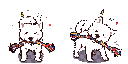
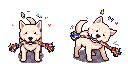
양몰이 v5.48: 터그 그림 진도견·보더콜리·코기의 흰 털이 배경과 같이 지워져 투명하던 것 — 제미나이 원본에서 다시 뗌(무채색 밝은 배경만 바깥부터 + 외곽선 안쪽은 지키기). 터그 시트 ?v= 붙임

diff --git a/sheepdog-v5/그림.js b/sheepdog-v5/그림.js
@@ -11,7 +11,7 @@ const 그림 = {
   시작(canvas) {
     그림.화면 = canvas; 그림.c = canvas.getContext("2d"); 그림.c.imageSmoothingEnabled = false;
     const 불러올 = [["양","양_동작.png"],["늑대","늑대.png"],["여우","여우.png"],["마당","yard.png"],["마당앞","yard_front.png"],["상자","배경/상자.png"],["상자앞","배경/상자앞.png"]];
-    견종순서.forEach(k => { 불러올.push(["개_"+k, "개/"+k+".png"]); 불러올.push(["개_"+k+"_아기", "개/"+k+"_아기.png?v=5.47"]); 불러올.push(["얼굴_"+k, "얼굴/"+k+".png"]); 불러올.push(["터그_"+k, "터그/"+k+".png"]); });   // 아기·얼굴 시트는 있으면 쓰고 없으면 넘어간다   // ★ 아기·앞겹 시트는 있으면 쓰고 없으면 그냥 넘어간다
+    견종순서.forEach(k => { 불러올.push(["개_"+k, "개/"+k+".png"]); 불러올.push(["개_"+k+"_아기", "개/"+k+"_아기.png?v=5.47"]); 불러올.push(["얼굴_"+k, "얼굴/"+k+".png"]); 불러올.push(["터그_"+k, "터그/"+k+".png?v=5.48"]); });   // 아기·얼굴 시트는 있으면 쓰고 없으면 넘어간다   // ★ 아기·앞겹 시트는 있으면 쓰고 없으면 그냥 넘어간다
     // ★ 2026-09-25 골든리트리버 새 그림(형이 Gemini 로 뽑은 시트 → 32칸). 못 불러오면 옛 시트 그대로
     불러올.push(["개_골든리트리버_새","개/golden.png"], ["개_골든리트리버_뒤","개/golden_back.png"]);
     불러올.forEach(([키, 경로]) => { const im = new Image(); im.onload=()=>{ 그림.시트[키]=im; }; im.onerror=()=>{}; im.src=경로; });

diff --git a/sheepdog/그림.js b/sheepdog/그림.js
@@ -11,7 +11,7 @@ const 그림 = {
   시작(canvas) {
     그림.화면 = canvas; 그림.c = canvas.getContext("2d"); 그림.c.imageSmoothingEnabled = false;
     const 불러올 = [["양","양_동작.png"],["늑대","늑대.png"],["여우","여우.png"],["마당","yard.png"],["마당앞","yard_front.png"],["상자","배경/상자.png"],["상자앞","배경/상자앞.png"]];
-    견종순서.forEach(k => { 불러올.push(["개_"+k, "개/"+k+".png"]); 불러올.push(["개_"+k+"_아기", "개/"+k+"_아기.png?v=5.47"]); 불러올.push(["얼굴_"+k, "얼굴/"+k+".png"]); 불러올.push(["터그_"+k, "터그/"+k+".png"]); });   // 아기·얼굴 시트는 있으면 쓰고 없으면 넘어간다   // ★ 아기·앞겹 시트는 있으면 쓰고 없으면 그냥 넘어간다
+    견종순서.forEach(k => { 불러올.push(["개_"+k, "개/"+k+".png"]); 불러올.push(["개_"+k+"_아기", "개/"+k+"_아기.png?v=5.47"]); 불러올.push(["얼굴_"+k, "얼굴/"+k+".png"]); 불러올.push(["터그_"+k, "터그/"+k+".png?v=5.48"]); });   // 아기·얼굴 시트는 있으면 쓰고 없으면 넘어간다   // ★ 아기·앞겹 시트는 있으면 쓰고 없으면 그냥 넘어간다
     // ★ 2026-09-25 골든리트리버 새 그림(형이 Gemini 로 뽑은 시트 → 32칸). 못 불러오면 옛 시트 그대로
     불러올.push(["개_골든리트리버_새","개/golden.png"], ["개_골든리트리버_뒤","개/golden_back.png"]);
     불러올.forEach(([키, 경로]) => { const im = new Image(); im.onload=()=>{ 그림.시트[키]=im; }; im.onerror=()=>{}; im.src=경로; });

diff --git a/sheepdog-v5/index.html b/sheepdog-v5/index.html
@@ -29,15 +29,15 @@
 <video id="인트로" playsinline preload="none"></video>
 <!-- 🚨 파일 이름이 한글이면 Cloudflare 의 캐시 규칙(_headers 의 *.js)이 안 걸린다.
      그래서 주소 뒤에 판 번호를 붙여 캐시를 넘긴다. 코드를 고치면 이 v= 를 같이 올릴 것. -->
-<script src="자료.js?v=5.47"></script>
-<script src="문구.js?v=5.47"></script>
-<script src="저장.js?v=5.47"></script>
-<script src="소리.js?v=5.47"></script>
-<script src="광고.js?v=5.47"></script>
-<script src="그림.js?v=5.47"></script>
-<script src="규칙_생성기.js?v=5.47"></script>
-<script src="게임.js?v=5.47"></script>
-<script src="화면.js?v=5.47"></script>
+<script src="자료.js?v=5.48"></script>
+<script src="문구.js?v=5.48"></script>
+<script src="저장.js?v=5.48"></script>
+<script src="소리.js?v=5.48"></script>
+<script src="광고.js?v=5.48"></script>
+<script src="그림.js?v=5.48"></script>
+<script src="규칙_생성기.js?v=5.48"></script>
+<script src="게임.js?v=5.48"></script>
+<script src="화면.js?v=5.48"></script>
 <script>
 (function(){
   const 캔버스=document.getElementById("캔버스"); let 배율=1;

diff --git a/sheepdog/index.html b/sheepdog/index.html
@@ -29,15 +29,15 @@
 <video id="인트로" playsinline preload="none"></video>
 <!-- 🚨 파일 이름이 한글이면 Cloudflare 의 캐시 규칙(_headers 의 *.js)이 안 걸린다.
      그래서 주소 뒤에 판 번호를 붙여 캐시를 넘긴다. 코드를 고치면 이 v= 를 같이 올릴 것. -->
-<script src="자료.js?v=5.47"></script>
-<script src="문구.js?v=5.47"></script>
-<script src="저장.js?v=5.47"></script>
-<script src="소리.js?v=5.47"></script>
-<script src="광고.js?v=5.47"></script>
-<script src="그림.js?v=5.47"></script>
-<script src="규칙_생성기.js?v=5.47"></script>
-<script src="게임.js?v=5.47"></script>
-<script src="화면.js?v=5.47"></script>
+<script src="자료.js?v=5.48"></script>
+<script src="문구.js?v=5.48"></script>
+<script src="저장.js?v=5.48"></script>
+<script src="소리.js?v=5.48"></script>
+<script src="광고.js?v=5.48"></script>
+<script src="그림.js?v=5.48"></script>
+<script src="규칙_생성기.js?v=5.48"></script>
+<script src="게임.js?v=5.48"></script>
+<script src="화면.js?v=5.48"></script>
 <script>
 (function(){
   const 캔버스=document.getElementById("캔버스"); let 배율=1;

diff --git a/sheepdog-v5/sw.js b/sheepdog-v5/sw.js
@@ -1,5 +1,5 @@
 // sw.js — 양몰이 v5.0. 파일 바꾸면 판 문자열을 올린다.
-const 판 = "양몰이-v5.47";
+const 판 = "양몰이-v5.48";
 const 핵심 = ["./","index.html","manifest.json","자료.js","문구.js","저장.js","소리.js","광고.js","그림.js","규칙_생성기.js","게임.js","화면.js","아이콘.png",
   "양_동작.png","늑대.png","여우.png","개/보더콜리.png","개/코기.png","개/골든리트리버.png","개/golden.png","개/golden_back.png","개/진도견.png","개/삽살개.png","개/저먼셰퍼드.png",
   "소리/누름.mp3","소리/들임.mp3","소리/배경_목장.mp3","소리/배경_첫화면.mp3","소리/양.mp3","소리/이김.mp3","소리/짐.mp3","소리/짖기.mp3","소리/짖기_보더콜리.mp3","소리/짖기_골든리트리버.mp3",

diff --git a/sheepdog/sw.js b/sheepdog/sw.js
@@ -1,5 +1,5 @@
 // sw.js — 양몰이 v5.0. 파일 바꾸면 판 문자열을 올린다.
-const 판 = "양몰이-v5.47";
+const 판 = "양몰이-v5.48";
 const 핵심 = ["./","index.html","manifest.json","자료.js","문구.js","저장.js","소리.js","광고.js","그림.js","규칙_생성기.js","게임.js","화면.js","아이콘.png",
   "양_동작.png","늑대.png","여우.png","개/보더콜리.png","개/코기.png","개/골든리트리버.png","개/golden.png","개/golden_back.png","개/진도견.png","개/삽살개.png","개/저먼셰퍼드.png",
   "소리/누름.mp3","소리/들임.mp3","소리/배경_목장.mp3","소리/배경_첫화면.mp3","소리/양.mp3","소리/이김.mp3","소리/짐.mp3","소리/짖기.mp3","소리/짖기_보더콜리.mp3","소리/짖기_골든리트리버.mp3",
